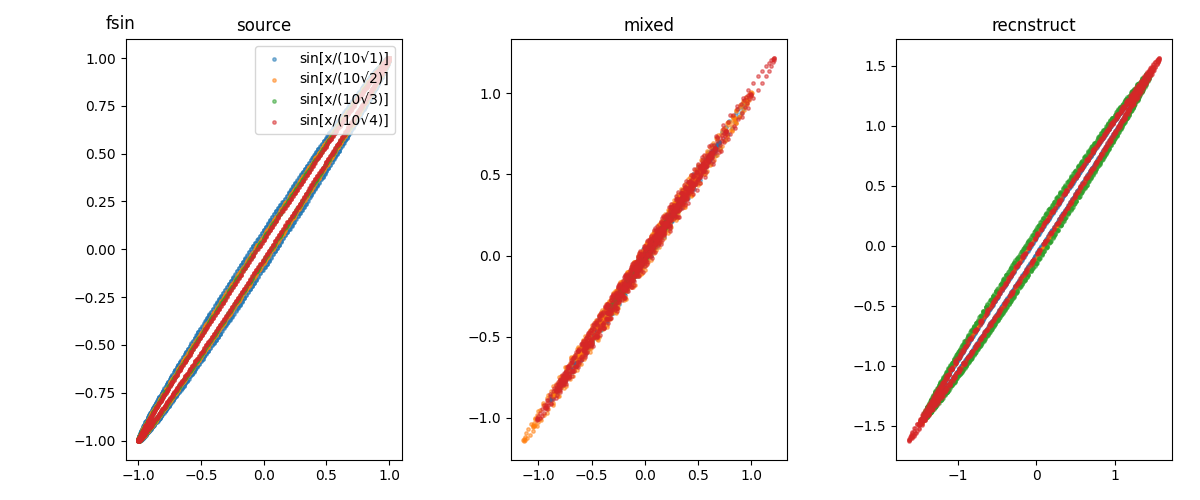
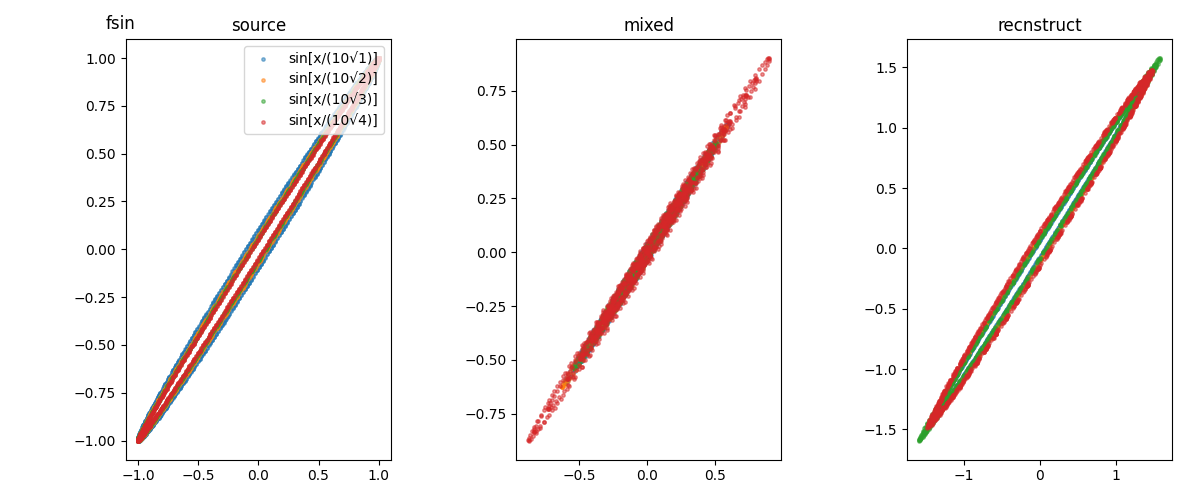
push

diff --git a/fastica_test.py b/fastica_test.py
@@ -10,7 +10,7 @@ from pprint import pprint
 
 np.set_printoptions(precision=4)
 np.set_printoptions(suppress=True)
-np.random.seed(seed=1)
+np.random.seed(seed=2)
 
 def main(S, desc, title):
 
@@ -33,7 +33,7 @@ def main(S, desc, title):
     p.print("A:")
     p.pprint(A)
 
-    p.print("inner(S)")
+    p.print("inner(S):")
     p.pprint(inner_matrix(S))
     p.print("inner(X):")
     p.pprint(inner_matrix(X))
@@ -89,7 +89,7 @@ if __name__ == '__main__':
     main(S, desc, title)
 
     S = concat(
-        [[np.sin(j/10/(i+1)) for j in range(5000)] for i in range(4)]
+        [[np.sin(j/10/(i+4)) for j in range(500)] for i in range(4)]
     )
     desc = [
         EachOption(label="sin[x/(10*1)]"),
